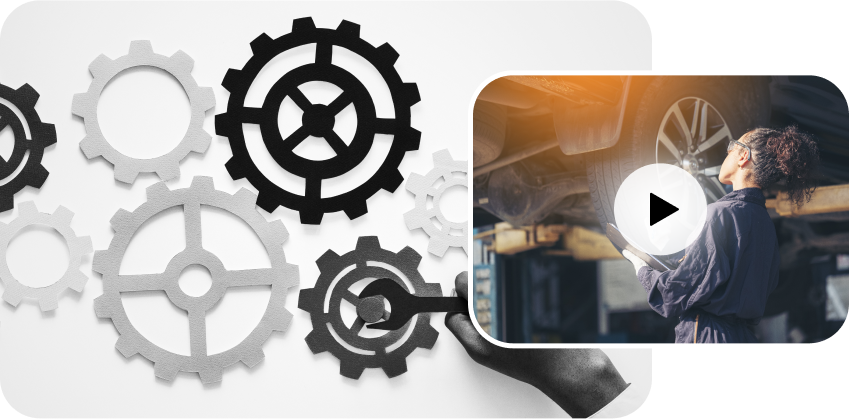
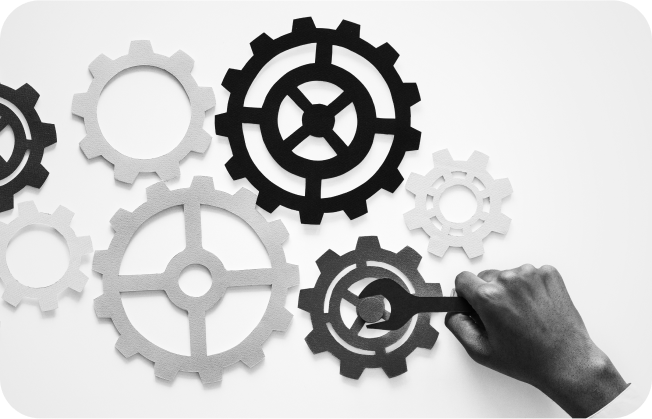
experience video section edited

diff --git a/src/app/(routes)/_home/_components/ExperienceProductSection/ExperienceProductSection.jsx b/src/app/(routes)/_home/_components/ExperienceProductSection/ExperienceProductSection.jsx
@@ -3,6 +3,8 @@ import React from "react";
 import { SectionTitle } from "@/components/typography/Typography";
 import exp1 from "../../_assets/experience1.png";
 import exp2 from "../../_assets/experience2.png";
+import exp3 from "../../_assets/experience3.png";
+import exp4 from "../../_assets/experience4.png";
 import Image from "next/image";
 
 const ExperienceProductSection = () => {
@@ -36,45 +38,82 @@ const ExperienceProductSection = () => {
 
       {/* Bottom */}
       <div className="flex justify-between mt-10 relative p-5">
-        <div className="w-[70%]">
+        <div className="w-[65%] relative">
           <Image
-            className="h-full rounded-2xl object-cover w-full object-center"
+            className="h-full rounded-2xl w-full object-center"
             src={exp2}
             alt="experience2-img"
           />
-          
+          <div className=" absolute  top-[20%] -right-[15%] border-10 border-white rounded-full flex justify-center items-center">
+            <Image
+              className=" h-[40%] object-center "
+              src={exp3}
+              alt="experience2-img"
+            />
+            <Image
+              className="absolute  h-[30%]  object-center"
+              src={exp4}
+              alt="experience2-img"
+            />
+          </div>
         </div>
         <div className="mx-10 ">
           <div className="w-56 mb-10 ">
-            <p className="text-[18px] xs:text-[20px] 2xl:text-[22px] font-medium font-Inter leading-[120%]">Future Technology</p>
-            <p className="text-Gray 2xl:text-[18px] text-sm xs:text-base my-1.5 font-Inter leading-[160%] ">Fonebox Automation provide best automation products.</p>
+            <p className="text-[18px] xs:text-[20px] 2xl:text-[22px] font-medium font-Inter leading-[120%]">
+              Future Technology
+            </p>
+            <p className="text-Gray 2xl:text-[18px] text-sm xs:text-base my-1.5 font-Inter leading-[160%] ">
+              Fonebox Automation provide best automation products.
+            </p>
           </div>
           <div className="w-56 mb-5 ">
-            <p className="text-[18px] xs:text-[20px] 2xl:text-[22px] font-medium font-Inter leading-[120%]">Our Missioin</p>
-            <p className="text-Gray 2xl:text-[18px] text-sm xs:text-base my-1.5 font-Inter leading-[160%] ">Fonebox Automation provide best automation products.</p>
+            <p className="text-[18px] xs:text-[20px] 2xl:text-[22px] font-medium font-Inter leading-[120%]">
+              Our Missioin
+            </p>
+            <p className="text-Gray 2xl:text-[18px] text-sm xs:text-base my-1.5 font-Inter leading-[160%] ">
+              Fonebox Automation provide best automation products.
+            </p>
           </div>
         </div>
         <span className="absolute -bottom-0.5 -left-0.5 z-10  pointer-events-none ">
-            <svg
-              className="w-[50px] h-[50px]"
-              viewBox="0 0 65 65"
-              fill="none"
-              xmlns="http://www.w3.org/2000/svg"
-            >
-              <circle
-                cx="32.5"
-                cy="32.5"
-                r="32.5"
-                fill="#2298F1"
-                fillOpacity="0.6"
-              />
-            </svg>
-          </span>
-
+          <svg
+            className="w-[50px] h-[50px]"
+            viewBox="0 0 65 65"
+            fill="none"
+            xmlns="http://www.w3.org/2000/svg"
+          >
+            <circle
+              cx="32.5"
+              cy="32.5"
+              r="32.5"
+              fill="#2298F1"
+              fillOpacity="0.6"
+            />
+          </svg>
+        </span>
       </div>
 
       <div className="flex justify-end mr-20 ">
-        <svg width="154" height="154" viewBox="0 0 154 154" fill="none" xmlns="http://www.w3.org/2000/svg"><path fill-rule="evenodd" clip-rule="evenodd" d="M125.478 54.3455C114.956 52.652 109.387 54.1531 106.336 57.4876C103.282 60.8208 102.825 65.801 102.37 70.7824C102.075 74.2277 101.774 77.7433 100.771 80.6802C99.7263 83.7455 97.8885 86.2674 94.4794 87.7083C93.6703 88.0316 92.5268 88.1452 91.1477 87.9437C89.2455 87.7461 86.8075 87.1105 84.0461 86.1239C73.5089 82.5317 57.8399 74.6524 47.3698 72.1066C44.9762 71.4892 42.8502 71.1994 41.1548 71.305C39.6685 71.4235 38.5299 71.8299 37.9082 72.7396C37.4024 73.4784 37.2596 74.5117 37.4287 75.9639C37.7286 78.4159 39.0394 81.7189 41.5149 86.2275C43.6825 90.173 46.4398 93.8514 48.7076 97.7653C52.2625 103.881 55.8106 110.212 58.0566 116.591C58.192 117.011 57.9862 117.435 57.5882 117.563C57.1638 117.753 56.7353 117.505 56.6 117.086C54.3875 110.793 50.8822 104.552 47.3747 98.5288C45.0727 94.6737 42.3314 90.9298 40.1553 86.9807C37.5367 82.268 36.2065 78.7385 35.8987 76.1377C35.6378 74.2839 35.9385 72.8782 36.6308 71.8519C37.3301 70.8285 38.478 70.1349 39.9689 69.8727C41.9448 69.5183 44.6246 69.816 47.7474 70.5869C58.2525 73.1469 73.9795 81.0508 84.5533 84.658C87.1903 85.5936 89.5242 86.1862 91.323 86.4142C92.3857 86.5588 93.2541 86.5507 93.9031 86.2345C96.831 85.0331 98.3951 82.8362 99.3116 80.1551C100.269 77.3453 100.54 73.9625 100.845 70.5941C101.304 65.3235 101.934 59.9771 105.193 56.4369C108.455 52.8976 114.423 50.9777 125.717 52.8422C126.155 52.876 126.439 53.2834 126.374 53.6937C126.31 54.104 125.89 54.4417 125.478 54.3455Z" fill="#FFE0D6"></path><path fill-rule="evenodd" clip-rule="evenodd" d="M125.94 53.5985C125.865 53.4951 125.644 53.2584 125.444 53.1037C124.502 52.2807 122.954 51.21 122.506 50.8808C118.655 47.7007 114.175 44.5536 109.445 42.6148C109.049 42.4522 108.856 42.0088 109.011 41.6355C109.191 41.1999 109.641 41.0204 110.038 41.1829C114.904 43.1779 119.503 46.4463 123.508 49.6167C123.937 50.011 125.51 51.0925 126.469 51.9226C126.818 52.2113 127.098 52.472 127.255 52.682C127.375 52.8766 127.441 53.0491 127.464 53.2039C127.552 53.5314 127.492 53.9436 127.325 54.3122C127.132 54.7423 126.783 55.1814 126.334 55.5795C125.421 56.4425 124.035 57.3299 122.934 58.0432C122.307 58.4411 121.764 58.8008 121.532 59.0697C119.543 61.3838 119.284 64.698 121.43 68.1982C121.646 68.5779 121.536 69.0426 121.173 69.2577C120.81 69.4728 120.334 69.3504 120.092 69.0326C117.538 64.7834 117.95 60.8762 120.348 58.0747C120.938 57.3703 123.072 56.2076 124.618 55.0218C125.082 54.6298 125.475 54.2808 125.733 53.9499C125.814 53.8378 125.861 53.7841 125.915 53.6608C125.917 53.6615 125.945 53.6004 125.94 53.5985Z" fill="#FFE0D6"></path></svg>
+        <svg
+          width="154"
+          height="154"
+          viewBox="0 0 154 154"
+          fill="none"
+          xmlns="http://www.w3.org/2000/svg"
+        >
+          <path
+            fill-rule="evenodd"
+            clip-rule="evenodd"
+            d="M125.478 54.3455C114.956 52.652 109.387 54.1531 106.336 57.4876C103.282 60.8208 102.825 65.801 102.37 70.7824C102.075 74.2277 101.774 77.7433 100.771 80.6802C99.7263 83.7455 97.8885 86.2674 94.4794 87.7083C93.6703 88.0316 92.5268 88.1452 91.1477 87.9437C89.2455 87.7461 86.8075 87.1105 84.0461 86.1239C73.5089 82.5317 57.8399 74.6524 47.3698 72.1066C44.9762 71.4892 42.8502 71.1994 41.1548 71.305C39.6685 71.4235 38.5299 71.8299 37.9082 72.7396C37.4024 73.4784 37.2596 74.5117 37.4287 75.9639C37.7286 78.4159 39.0394 81.7189 41.5149 86.2275C43.6825 90.173 46.4398 93.8514 48.7076 97.7653C52.2625 103.881 55.8106 110.212 58.0566 116.591C58.192 117.011 57.9862 117.435 57.5882 117.563C57.1638 117.753 56.7353 117.505 56.6 117.086C54.3875 110.793 50.8822 104.552 47.3747 98.5288C45.0727 94.6737 42.3314 90.9298 40.1553 86.9807C37.5367 82.268 36.2065 78.7385 35.8987 76.1377C35.6378 74.2839 35.9385 72.8782 36.6308 71.8519C37.3301 70.8285 38.478 70.1349 39.9689 69.8727C41.9448 69.5183 44.6246 69.816 47.7474 70.5869C58.2525 73.1469 73.9795 81.0508 84.5533 84.658C87.1903 85.5936 89.5242 86.1862 91.323 86.4142C92.3857 86.5588 93.2541 86.5507 93.9031 86.2345C96.831 85.0331 98.3951 82.8362 99.3116 80.1551C100.269 77.3453 100.54 73.9625 100.845 70.5941C101.304 65.3235 101.934 59.9771 105.193 56.4369C108.455 52.8976 114.423 50.9777 125.717 52.8422C126.155 52.876 126.439 53.2834 126.374 53.6937C126.31 54.104 125.89 54.4417 125.478 54.3455Z"
+            fill="#FFE0D6"
+          ></path>
+          <path
+            fill-rule="evenodd"
+            clip-rule="evenodd"
+            d="M125.94 53.5985C125.865 53.4951 125.644 53.2584 125.444 53.1037C124.502 52.2807 122.954 51.21 122.506 50.8808C118.655 47.7007 114.175 44.5536 109.445 42.6148C109.049 42.4522 108.856 42.0088 109.011 41.6355C109.191 41.1999 109.641 41.0204 110.038 41.1829C114.904 43.1779 119.503 46.4463 123.508 49.6167C123.937 50.011 125.51 51.0925 126.469 51.9226C126.818 52.2113 127.098 52.472 127.255 52.682C127.375 52.8766 127.441 53.0491 127.464 53.2039C127.552 53.5314 127.492 53.9436 127.325 54.3122C127.132 54.7423 126.783 55.1814 126.334 55.5795C125.421 56.4425 124.035 57.3299 122.934 58.0432C122.307 58.4411 121.764 58.8008 121.532 59.0697C119.543 61.3838 119.284 64.698 121.43 68.1982C121.646 68.5779 121.536 69.0426 121.173 69.2577C120.81 69.4728 120.334 69.3504 120.092 69.0326C117.538 64.7834 117.95 60.8762 120.348 58.0747C120.938 57.3703 123.072 56.2076 124.618 55.0218C125.082 54.6298 125.475 54.2808 125.733 53.9499C125.814 53.8378 125.861 53.7841 125.915 53.6608C125.917 53.6615 125.945 53.6004 125.94 53.5985Z"
+            fill="#FFE0D6"
+          ></path>
+        </svg>
       </div>
     </div>
   );

diff --git a/src/layout/LayoutDefault.jsx b/src/layout/LayoutDefault.jsx
@@ -14,12 +14,12 @@ import CartSidebar from '@/components/cartSidebar/CartSidebar'
 const LayoutDefault = ({ children }) => {
     const [loading, setLoading] = useState(true);
 
-    // setTimeout(() => {
-    //     setLoading(false);
-    // }, 2000)
-    // if (loading) {
-    //     return <LoadingPage />;
-    // }
+    setTimeout(() => {
+        setLoading(false);
+    }, 2000)
+    if (loading) {
+        return <LoadingPage />;
+    }
     return (
         <Provider>
             <Header />
